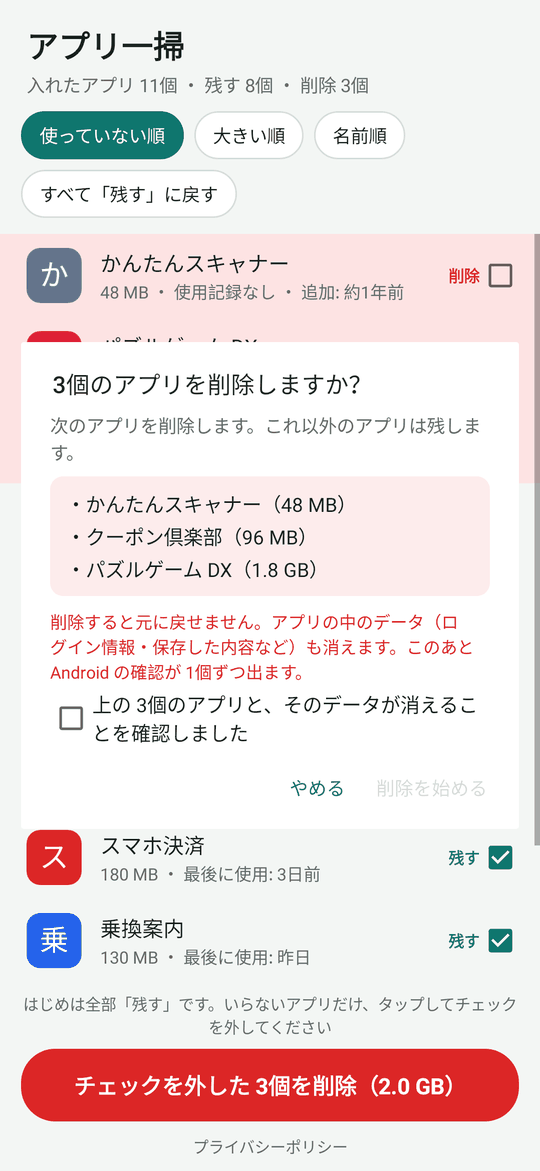
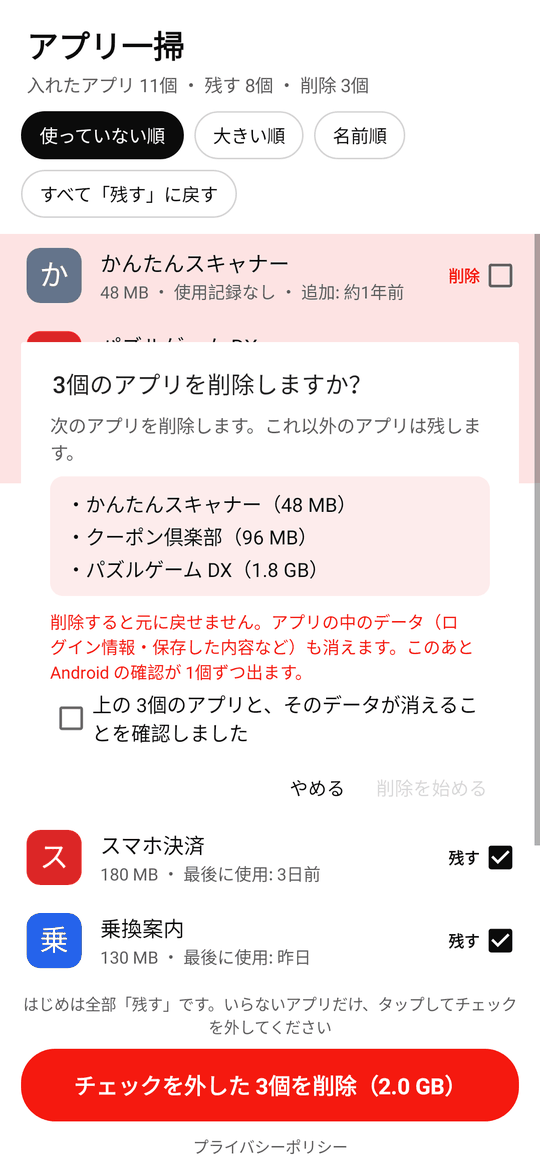
アプリ一掃: 通知パージと同じ白・黒・赤の配色とロゴに（アプリのアイコンと画面、公式サイト、ストア画像）
Claude-Session: https://claude.ai/code/session_01WQewJuRn2mGB1EbdpVRuwB

diff --git a/sweep-site/public/index.html b/sweep-site/public/index.html
@@ -10,21 +10,26 @@
 <meta property="og:image" content="https://applications.sucks/icon.png">
 <meta property="og:description" content="いらないアプリだけ選んで、まとめて削除。">
 <style>
-  :root { --bg: #F3F6F4; --card: #FFFFFF; --ink: #16201D; --muted: #5F6B67; --line: #D5DDD9; --accent: #0F766E; --hero1: #0F766E; --hero2: #10B981; }
+  :root { --bg: #FFFFFF; --card: #F4F4F4; --ink: #0B0B0B; --muted: #5C5C5C; --line: #D4D4D4; --accent: #E3130A; --red: #F5190F; }
   @media (prefers-color-scheme: dark) {
-    :root { --bg: #0F1716; --card: #1A2523; --ink: #EEF3F1; --muted: #9AA8A3; --line: #2E3D39; --accent: #34D399; }
+    :root { --bg: #0B0B0B; --card: #1A1A1A; --ink: #F5F5F5; --muted: #A8A8A8; --line: #333333; --accent: #FF4A40; }
   }
   * { box-sizing: border-box; }
   body { margin: 0; background: var(--bg); color: var(--ink); font: 16px/1.8 system-ui, -apple-system, "Hiragino Sans", "Noto Sans JP", sans-serif; }
-  .hero { background: linear-gradient(135deg, var(--hero1), var(--hero2)); color: #fff; text-align: center; padding: 56px 16px 64px; }
-  .hero img { width: 96px; height: 96px; border-radius: 22px; box-shadow: 0 8px 24px rgba(0,0,0,.2); }
-  .hero h1 { font-size: clamp(1.4rem, 6.2vw, 3rem); margin: 16px 0 0; letter-spacing: .04em; }
-  .hero .lead { font-size: clamp(1.1rem, 4vw, 1.4rem); margin: 8px 0 0; }
+  header.site { max-width: 860px; margin: 0 auto; padding: 18px 16px 0; }
+  header.site img { display: block; width: 200px; max-width: 60%; height: auto; }
+  .hero { text-align: center; padding: 28px 16px 44px; border-bottom: 4px solid var(--ink); }
+  .hero img { width: 104px; height: 104px; border-radius: 24px; border: 1px solid var(--line); box-shadow: 0 10px 28px rgba(0,0,0,.14); }
+  .hero h1 { font-size: clamp(1.7rem, 7vw, 3.2rem); font-weight: 900; margin: 20px 0 6px; line-height: 1.3; }
+  .hero h1 em { font-style: normal; color: var(--red); }
+  .hero .name { font-size: .95rem; font-weight: 700; margin: 0; }
+  .hero .lead { font-size: clamp(1.05rem, 4vw, 1.25rem); color: var(--muted); margin: 10px 0 0; }
   .hero p { text-wrap: balance; word-break: keep-all; overflow-wrap: anywhere; }
   .badges { display: flex; flex-wrap: wrap; justify-content: center; gap: 8px; margin-top: 20px; }
-  .badge { padding: 4px 14px; border-radius: 999px; background: rgba(255,255,255,.2); font-size: .9rem; }
+  .badge { padding: 4px 14px; border-radius: 999px; background: var(--ink); color: var(--bg); font-size: .9rem; font-weight: 700; }
   main { max-width: 860px; margin: 0 auto; padding: 0 16px 48px; }
-  h2 { font-size: 1.4rem; text-align: center; margin: 48px 0 16px; }
+  h2 { font-size: 1.4rem; font-weight: 900; text-align: center; margin: 48px 0 16px; }
+  h2::after { content: ""; display: block; width: 44px; height: 4px; background: var(--red); margin: 8px auto 0; border-radius: 2px; }
   .grid { display: grid; grid-template-columns: repeat(auto-fit, minmax(240px, 1fr)); gap: 16px; }
   .card { background: var(--card); border-radius: 16px; padding: 20px; }
   .card h3 { margin: 0 0 4px; font-size: 1.05rem; }
@@ -32,11 +37,13 @@
   .icon { font-size: 1.8rem; }
   .steps { display: grid; grid-template-columns: repeat(auto-fit, minmax(220px, 1fr)); gap: 20px; }
   .step { text-align: center; }
-  .step img { width: 100%; max-width: 260px; height: auto; border-radius: 20px; border: 1px solid var(--line); box-shadow: 0 6px 20px rgba(0,0,0,.08); }
+  .step img { width: 100%; max-width: 260px; height: auto; border-radius: 20px; border: 2px solid var(--ink); }
   .step h3 { margin: 12px 0 2px; font-size: 1.05rem; }
   .step p { margin: 0; color: var(--muted); font-size: .95rem; }
-  .num { display: inline-block; width: 1.7em; height: 1.7em; line-height: 1.7em; border-radius: 50%; background: var(--accent); color: var(--bg); font-weight: bold; margin-right: 6px; }
+  .num { display: inline-block; width: 1.7em; height: 1.7em; line-height: 1.7em; border-radius: 50%; background: var(--red); color: #fff; font-weight: bold; margin-right: 6px; }
   .note { background: var(--card); border-radius: 16px; padding: 20px; font-size: .95rem; }
+  .warn { border: 2px solid var(--red); background: transparent; }
+  .warn strong { color: var(--accent); }
   .caption { text-align: center; color: var(--muted); font-size: .85rem; margin-top: 12px; }
   a { color: var(--accent); }
   footer { text-align: center; color: var(--muted); font-size: .85rem; padding: 24px 16px 40px; }
@@ -44,13 +51,16 @@
 </style>
 </head>
 <body>
-<header class="hero">
-  <img src="/icon.png" alt="">
-  <h1>Androidアプリ一掃アプリ</h1>
-  <p class="lead">いらないアプリだけ選んで、<wbr>まとめて削除。</p>
-  <p>気づけば増えているアプリを、<wbr>安心して整理できます。</p>
-  <div class="badges"><span class="badge">Android 9 以上</span><span class="badge">無料・広告なし</span><span class="badge">Google Play で近日公開</span></div>
+<header class="site">
+  <a href="/"><picture><source srcset="/logo-white.png" media="(prefers-color-scheme: dark)"><img src="/logo.png" alt="アプリ一掃" width="1300" height="316"></picture></a>
 </header>
+<section class="hero">
+  <img src="/icon.png" alt="Androidアプリ一掃アプリのアイコン">
+  <h1>いらないアプリ、<wbr><em>まとめて一掃。</em></h1>
+  <p class="name">Androidアプリ一掃アプリ</p>
+  <p class="lead">残すアプリはそのまま。<wbr>チェックを外したものだけ、<wbr>確認してから削除します。</p>
+  <div class="badges"><span class="badge">Android 9 以上</span><span class="badge">無料・広告なし</span><span class="badge">Google Play で近日公開</span></div>
+</section>
 
 <main>
   <h2>使い方</h2>
@@ -83,8 +93,8 @@
   </div>
 
   <h2>ご注意</h2>
-  <div class="note">
-    削除したアプリと、その中のデータ（ログイン情報・保存した内容など）は元に戻せません。必要なデータは、削除の前に引き継ぎやバックアップをしてください。
+  <div class="note warn">
+    <strong>削除は取り消せません。</strong>削除したアプリと、その中のデータ（ログイン情報・保存した内容など）は元に戻せません。必要なデータは、削除の前に引き継ぎやバックアップをしてください。
   </div>
 
   <h2>お問い合わせ</h2>

diff --git a/sweep-android/store/render-graphics.js b/sweep-android/store/render-graphics.js
@@ -1,30 +1,59 @@
+// ストア用の画像と、公式サイトのロゴを作り直す
+//   node render-graphics.js <ストア画像の出力先> <サイトの public> [太字フォント(woff2)のあるフォルダ]
+// フォントは @fontsource/noto-sans-jp の files フォルダを渡す（なければ端末のゴシック体で描く）
 const { chromium } = require('playwright');
-const out = process.argv[2];
-const bin = (size, vb = '0 0 108 108') => `
+const fs = require('fs');
+const [store, site, fontDir] = process.argv.slice(2);
+
+const RED = '#F5190F', BLACK = '#0B0B0B';
+const face = (file) => fontDir && fs.existsSync(`${fontDir}/${file}`)
+  ? `@font-face{font-family:Logo;font-weight:900;src:url(data:font/woff2;base64,${fs.readFileSync(`${fontDir}/${file}`).toString('base64')})}` : '';
+const fonts = `<style>${face('noto-sans-jp-japanese-900-normal.woff2')}${face('noto-sans-jp-latin-900-normal.woff2')}
+  body{margin:0;font-family:Logo,'Noto Sans JP','IPAPGothic',sans-serif;font-weight:900}</style>`;
+
+// アプリのタイル 4 つに赤い斜線（通知パージのベル＋斜線と同じ考え方）。ink はタイルの色、gap は斜線のふちの色
+const mark = (size, ink, gap, vb = '21 21 66 66') => `
 <svg width="${size}" height="${size}" viewBox="${vb}" xmlns="http://www.w3.org/2000/svg">
-  <path d="M37,44 H71 M48,44 V38 H60 V44 M41,44 L43.5,73 H64.5 L67,44 M50,52 V65 M58,52 V65"
-    fill="none" stroke="#FFFFFF" stroke-width="4.5" stroke-linecap="round" stroke-linejoin="round"/>
+  <g fill="${ink}">
+    <rect x="35" y="39" width="16" height="16" rx="4"/><rect x="55" y="39" width="16" height="16" rx="4"/>
+    <rect x="35" y="59" width="16" height="16" rx="4"/><rect x="55" y="59" width="16" height="16" rx="4"/>
+  </g>
+  <path d="M31,35 L75,79" stroke="${gap}" stroke-width="11" stroke-linecap="round"/>
+  <path d="M31,35 L75,79" stroke="${RED}" stroke-width="6" stroke-linecap="round"/>
+  <path d="M71,31 L72.500,26 M76,35 L80.500,31 M78,40.500 L83.500,39.500" stroke="${RED}" stroke-width="3.500" stroke-linecap="round" fill="none"/>
 </svg>`;
-const bg = 'linear-gradient(135deg, #0F766E, #10B981)';
-const icon = `<html><body style="margin:0"><div style="width:512px;height:512px;background:${bg};display:flex;align-items:center;justify-content:center">
-  ${bin(512, '21 22 66 66')}</div></body></html>`;
-const feature = `<html><body style="margin:0;font-family:'IPAPGothic','IPAGothic',sans-serif">
-<div style="width:1024px;height:500px;background:${bg};display:flex;align-items:center;gap:8px;padding:0 40px;box-sizing:border-box;color:#fff">
-  <div style="flex:none">${bin(280)}</div>
-  <div>
-    <div style="font-size:56px;font-weight:bold;letter-spacing:1px;white-space:nowrap;text-shadow:0 2px 8px rgba(0,0,0,.2)">Androidアプリ一掃アプリ</div>
-    <div style="font-size:34px;margin-top:20px;line-height:1.5">いらないアプリだけ選んで、<br>まとめて削除</div>
-    <div style="font-size:24px;margin-top:22px;opacity:.95">最後に使った日・容量がひと目でわかる</div>
-  </div>
+
+const wordmark = (ink, px) => `
+  <div style="line-height:1;white-space:nowrap">
+    <div style="font-size:${px}px;transform:skewX(-8deg);transform-origin:left bottom;letter-spacing:${px * 0.02}px">
+      <span style="color:${ink}">アプリ</span><span style="color:${RED}">一掃</span></div>
+    <div style="font-size:${px * 0.2}px;letter-spacing:${px * 0.115}px;color:${ink};margin-top:${px * 0.14}px;padding-left:${px * 0.04}px">ANDROID APP SWEEP</div>
+  </div>`;
+
+const logo = (ink, gap) => `<html>${fonts}<body style="background:transparent">
+  <div id="x" style="display:inline-flex;align-items:center;gap:6px;padding:8px 20px 8px 4px">${mark(300, ink, gap)}${wordmark(ink, 190)}</div></body></html>`;
+const icon = `<html><body style="margin:0"><div id="x" style="width:512px;height:512px;background:#fff;display:flex;align-items:center;justify-content:center">
+  ${mark(512, BLACK, '#fff', '19 21 70 70')}</div></body></html>`;
+const feature = `<html>${fonts}<body><div id="x" style="width:1024px;height:500px;background:#fff;display:flex;flex-direction:column;align-items:center;justify-content:center;gap:26px">
+  <div style="display:flex;align-items:center;gap:4px">${mark(220, BLACK, '#fff')}${wordmark(BLACK, 128)}<div style="width:30px"></div></div>
+  <div style="font-size:34px;color:${BLACK};letter-spacing:2px">いらないアプリだけ選んで、<span style="color:${RED}">まとめて削除</span></div>
 </div></body></html>`;
+
 (async () => {
   const b = await chromium.launch();
-  const p = await b.newPage();
-  await p.setViewportSize({ width: 512, height: 512 });
-  await p.setContent(icon);
-  await p.screenshot({ path: `${out}/icon-512.png`, clip: { x: 0, y: 0, width: 512, height: 512 } });
-  await p.setViewportSize({ width: 1024, height: 500 });
-  await p.setContent(feature);
-  await p.screenshot({ path: `${out}/feature-graphic-1024x500.png`, clip: { x: 0, y: 0, width: 1024, height: 500 } });
+  const shot = async (html, path, scale = 1, transparent = false) => {
+    const p = await b.newPage({ viewport: { width: 1400, height: 700 }, deviceScaleFactor: scale });
+    await p.setContent(html);
+    await p.evaluate(() => document.fonts.ready);
+    await p.locator('#x').screenshot({ path, omitBackground: transparent });
+    await p.close();
+  };
+  await shot(icon, `${store}/icon-512.png`);
+  await shot(feature, `${store}/feature-graphic-1024x500.png`);
+  if (site) {
+    await shot(icon, `${site}/icon.png`, 0.5);
+    await shot(logo(BLACK, '#fff'), `${site}/logo.png`, 1, true);
+    await shot(logo('#fff', '#0B0B0B'), `${site}/logo-white.png`, 1, true);
+  }
   await b.close();
 })();

diff --git a/sweep-android/app/src/main/java/io/github/nobusatokomatsu/appsweep/MainActivity.kt b/sweep-android/app/src/main/java/io/github/nobusatokomatsu/appsweep/MainActivity.kt
@@ -164,7 +164,7 @@ class MainActivity : ComponentActivity() {
 
     private fun buildBanner(): View = LinearLayout(this).apply {
         orientation = LinearLayout.VERTICAL
-        background = roundRect(0xFFFFF7E0.toInt(), dp(14).toFloat(), dp(1), 0xFFE8C766.toInt())
+        background = roundRect(CARD, dp(14).toFloat(), dp(2), INK)
         setPadding(dp(14), dp(12), dp(14), dp(12))
         addView(TextView(context).apply {
             text = "「使用状況へのアクセス」を許可すると、最後に使った日と、データを含めた容量が分かります。" +
@@ -176,7 +176,7 @@ class MainActivity : ComponentActivity() {
             text = "許可する（一覧から「アプリ一掃」を選ぶ）"
             textSize = 15f
             setTypeface(Typeface.DEFAULT, Typeface.BOLD)
-            setTextColor(ACCENT)
+            setTextColor(DANGER)
             setPadding(0, dp(10), 0, dp(2))
             setOnClickListener { openUsageSettings() }
         })

diff --git a/sweep-site/public/privacy.html b/sweep-site/public/privacy.html
@@ -6,9 +6,9 @@
 <title>プライバシーポリシー — Androidアプリ一掃アプリ</title>
 <link rel="icon" href="/icon.png">
 <style>
-  :root { --bg: #F3F6F4; --card: #FFFFFF; --ink: #16201D; --muted: #5F6B67; --line: #D5DDD9; --accent: #0F766E; }
+  :root { --bg: #FFFFFF; --card: #F4F4F4; --ink: #0B0B0B; --muted: #5C5C5C; --line: #D4D4D4; --accent: #E3130A; }
   @media (prefers-color-scheme: dark) {
-    :root { --bg: #0F1716; --card: #1A2523; --ink: #EEF3F1; --muted: #9AA8A3; --line: #2E3D39; --accent: #34D399; }
+    :root { --bg: #0B0B0B; --card: #1A1A1A; --ink: #F5F5F5; --muted: #A8A8A8; --line: #333333; --accent: #FF4A40; }
   }
   body { margin: 0; background: var(--bg); color: var(--ink); font: 16px/1.8 system-ui, -apple-system, "Hiragino Sans", "Noto Sans JP", sans-serif; }
   main { max-width: 760px; margin: 0 auto; padding: 32px 16px 48px; }

diff --git a/sweep-android/app/src/main/java/io/github/nobusatokomatsu/appsweep/Ui.kt b/sweep-android/app/src/main/java/io/github/nobusatokomatsu/appsweep/Ui.kt
@@ -8,13 +8,14 @@ import androidx.core.view.ViewCompat
 import androidx.core.view.WindowInsetsCompat
 import kotlin.math.roundToInt
 
-const val INK = 0xFF16201D.toInt()
-const val SUB = 0xFF5F6B67.toInt()
-const val ACCENT = 0xFF0F766E.toInt()
-const val DANGER = 0xFFDC2626.toInt()
+// 通知パージと同じ、白・黒・赤の 3 色
+const val INK = 0xFF0B0B0B.toInt()
+const val SUB = 0xFF5C5C5C.toInt()
+const val ACCENT = 0xFF0B0B0B.toInt()
+const val DANGER = 0xFFF5190F.toInt()
 const val CARD = 0xFFFFFFFF.toInt()
-const val LINE = 0xFFD5DDD9.toInt()
-const val OFF = 0xFFB6BFBB.toInt()
+const val LINE = 0xFFD4D4D4.toInt()
+const val OFF = 0xFFBDBDBD.toInt()
 
 fun Context.dp(v: Number): Int = (v.toFloat() * resources.displayMetrics.density).roundToInt()
 

diff --git a/sweep-site/public/404.html b/sweep-site/public/404.html
@@ -6,8 +6,8 @@
 <title>ページが見つかりません — Androidアプリ一掃アプリ</title>
 <link rel="icon" href="/icon.png">
 <style>
-  :root { --bg: #F3F6F4; --ink: #16201D; --accent: #0F766E; }
-  @media (prefers-color-scheme: dark) { :root { --bg: #0F1716; --ink: #EEF3F1; --accent: #34D399; } }
+  :root { --bg: #FFFFFF; --ink: #0B0B0B; --accent: #E3130A; }
+  @media (prefers-color-scheme: dark) { :root { --bg: #0B0B0B; --ink: #F5F5F5; --accent: #FF4A40; } }
   body { margin: 0; background: var(--bg); color: var(--ink); font: 16px/1.8 system-ui, -apple-system, "Hiragino Sans", "Noto Sans JP", sans-serif; text-align: center; padding: 96px 16px; }
   a { color: var(--accent); }
 </style>
